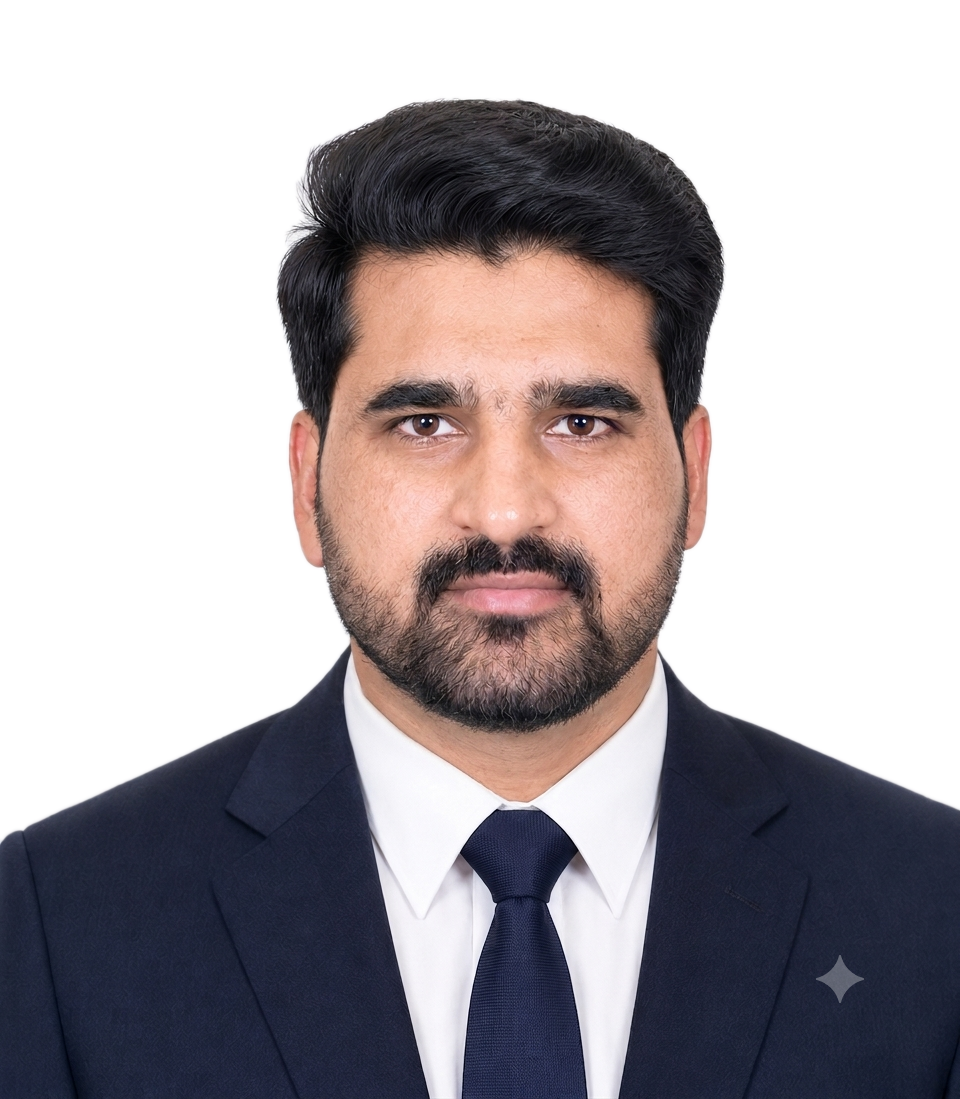
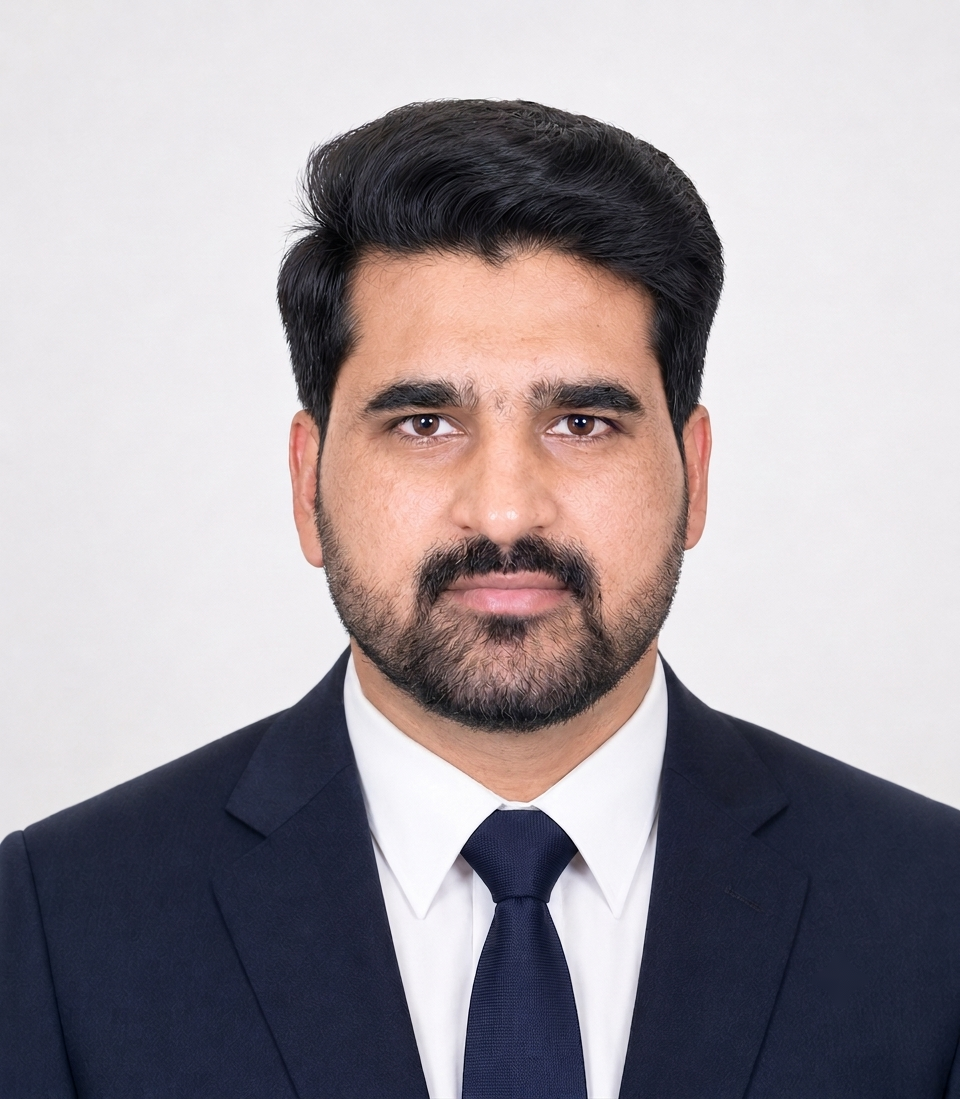
Remove AI-generation watermark from profile photo; fix remaining Node.js mentions
Inpaints the sparkle watermark off the suit in profile.jpg/png so the
headshot reads as a normal photo. Also fixes the SoftBuilders
experience entry, which still described Homnifi's stack as Node.js
instead of NestJS in its description and first achievement.

diff --git a/lib/fallback-data.ts b/lib/fallback-data.ts
@@ -61,9 +61,9 @@ export const fallbackExperience: Experience[] = [
     location: 'Business Bay, Dubai, UAE',
     start_date: '01/2024',
     end_date: undefined,
-    description: 'Web3-based staking and rewards platform built with React.js, Node.js, and MongoDB, supporting decentralized licensing, machine connectivity, and high-volume user activity.',
+    description: 'Web3-based staking and rewards platform built with React.js, NestJS, and MongoDB, supporting decentralized licensing, machine connectivity, and high-volume user activity.',
     achievements: [
-      'Architected and developed the core platform and admin dashboard using React.js and Node.js, supporting decentralized staking, rewards generation, and licence management.',
+      'Architected and developed the core platform and admin dashboard using React.js and NestJS, supporting decentralized staking, rewards generation, and licence management.',
       "Owned system design for the platform's NestJS-based microservices, defining service boundaries, data flow, and scalability strategy across staking, rewards, and licensing services.",
       'Gained experience building enterprise asset-centric platforms involving equipment management, licensing, machine connectivity, and operational workflows.',
       'Designed and implemented RESTful APIs and microservices that manage assets, users, permissions, workflows, and system events, aligning with Maximo-style backend architectures.',
